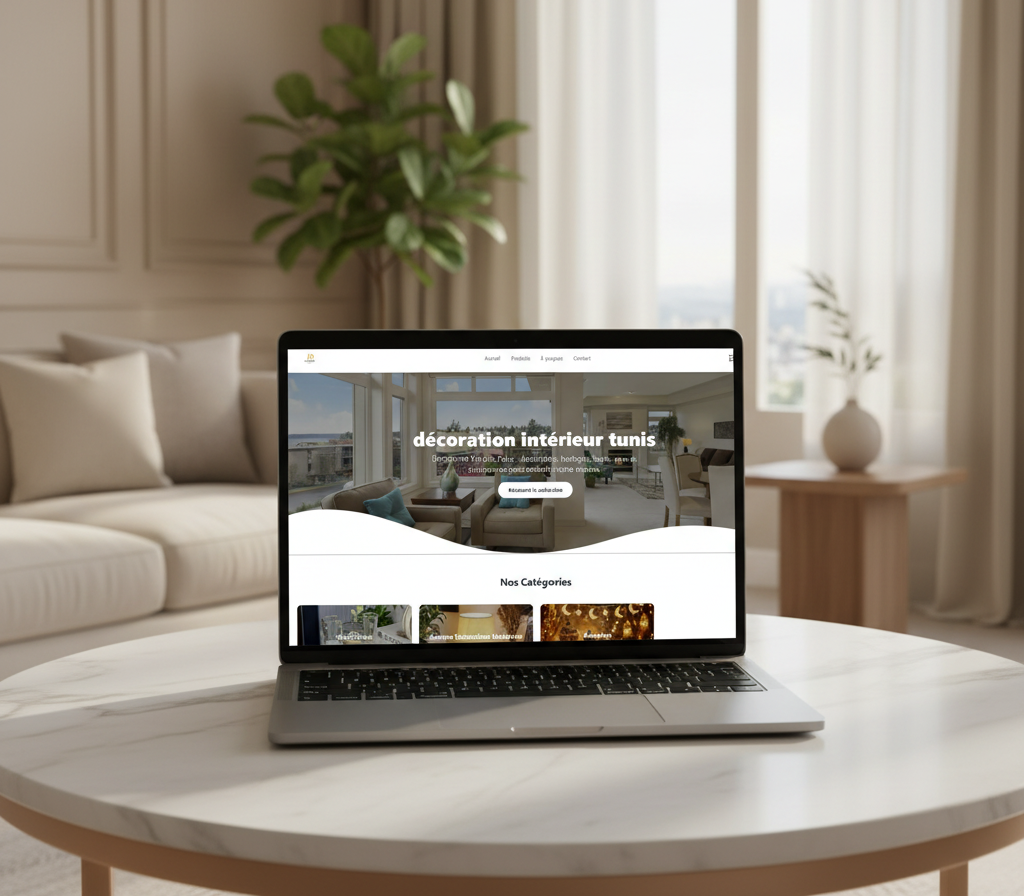
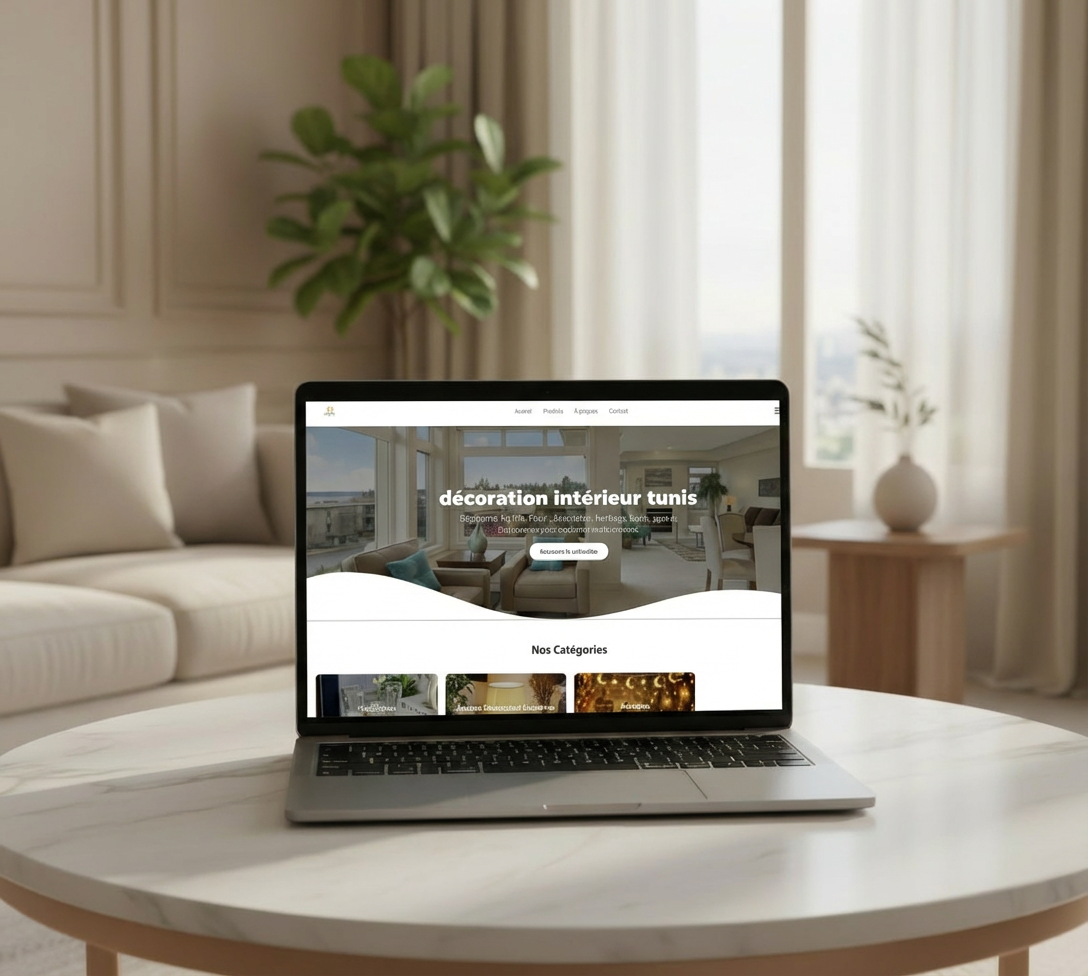
add projects

Changed region(s): [[0.0, 0.0312, 1.0, 1.0], [0.0, 0.4688, 0.0312, 0.5], [0.0, 0.3125, 0.0312, 0.3438]]

diff --git a/src/app/data/projects.ts b/src/app/data/projects.ts
@@ -24,7 +24,7 @@ export const projectsList = [
         title: "Speedigi",
         slug: "speedigi",
         description: "Speedigi is a platform for customizing and ordering printed virtual cards.",
-        image: "/assets/wise-code/project/speedigi.jpg",
+        image: "/assets/wise-code/project/speedigi.png",
         category: "Ecommerce",
         tags: ["Ecommerce","React", "Laravel"],
         link: "https://speedigi.ca",
@@ -34,7 +34,7 @@ export const projectsList = [
         title: "Phone Repaire SAS",
         slug: "phone-reapair-sas",
         description: "Phone Repaire SAS is a platform for repairing phones.",
-        image: "/assets/wise-code/project/phone-reapair-sas.jpg",
+        image: "/assets/wise-code/project/phone-repaire.png",
         category: "Service",
         tags: ["Service","ReactJS", "CRM"],
         link: "https://phone-reapair.vercel.app",
@@ -44,7 +44,7 @@ export const projectsList = [
         title: "French Cleaner",
         slug: "french-cleaner",
         description: "French Cleaner is a platform for cleaning services.",
-        image: "/assets/wise-code/project/french-cleaner.jpg",
+        image: "/assets/wise-code/project/french-cleaner.png",
         category: "Service",
         tags: ["Service", "ReactJS"],
         link: "https://french-cleaner.netlify.app",
@@ -54,7 +54,7 @@ export const projectsList = [
         title: "PurePara",
         slug: "pure-para",
         description: "PurePara is a platform for selling parapharmaceutical products.",
-        image: "/assets/wise-code/project/pure-para.jpg",
+        image: "/assets/wise-code/project/purepara.png",
         category: "Ecommerce",
         tags: ["Ecommerce", "Wordpress", "Web Scrapping"],
         link: "https://purepara.tn",
@@ -64,7 +64,7 @@ export const projectsList = [
         title: "Rezervy",
         slug: "rezervy",
         description: "Rezervy is a platform for booking and managing reservations for beauty services. It will come soon.",
-        image: "/assets/wise-code/project/rezervy.jpg",
+        image: "/assets/wise-code/project/rezervy.png",
         category: "Service",
         tags: ["Service", "ReactJS", "NextJS", "Laravel"],
         link: "https://rezervy.io",

diff --git a/src/app/Components/Project/Project2.tsx b/src/app/Components/Project/Project2.tsx
@@ -29,7 +29,7 @@ const Project2 = () => {
                 </div>
             </div>
             <div className="row">
-            {projectsList.slice(0,4).map((item, i) => (
+            {projectsList.slice(0,8).map((item, i) => (
                 <div key={i} className="col-lg-6">
                     <div className="agenko-project-item style-one mb-45 pf_fadeup">
                         <div className="thumbnail">
